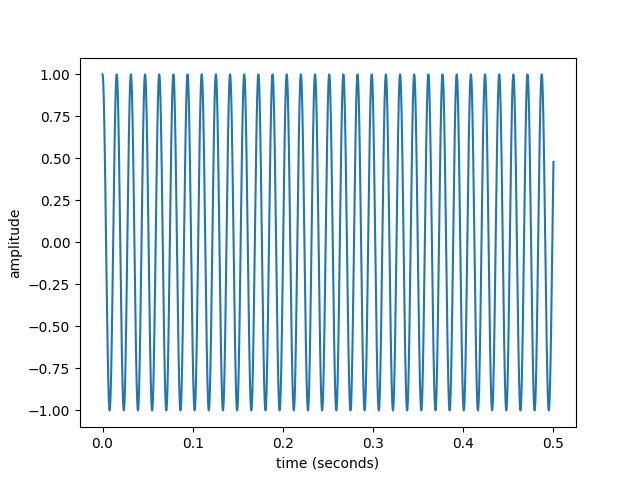
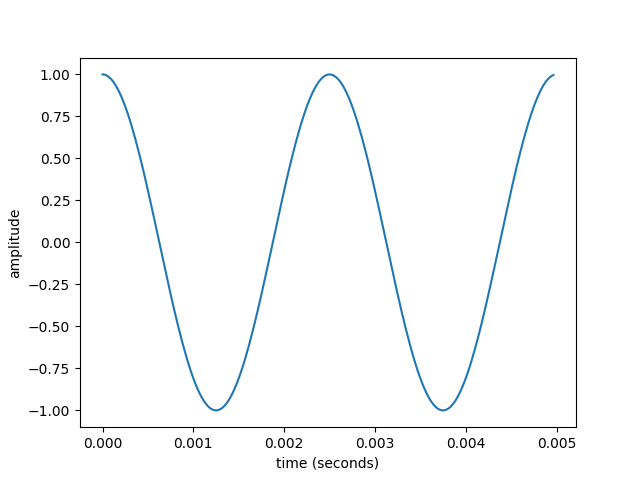
Q2

diff --git a/assignment03/assignment03.py b/assignment03/assignment03.py
@@ -16,9 +16,9 @@ def generateSinusoidal(amplitude, sampling_rate_Hz, frequency_Hz, length_secs, p
     t = np.arange(sampling_rate_Hz*length_secs)
     t /= sampling_rate_Hz
     #create the empty signal array
-    x = np.ndarray(shape=(int(sampling_rate_Hz * length_secs),))
+    x = np.zeros(int(sampling_rate_Hz * length_secs))
     #compute the signal
-    x = amplitude * np.sin(t * frequency_Hz + phase_radians)
+    x = amplitude * np.sin(2 * np.pi * frequency_Hz * t + phase_radians)
 
     return t, x
 
@@ -27,8 +27,9 @@ t_sin, x_sin = generateSinusoidal(1.0, 44100, 400, 0.5, np.pi/2) #generate a sin
 #Plot the first 5 ms of the sinusoid
 plt.xlabel('time (seconds)')
 plt.ylabel('amplitude')
-plt.plot(t_sin, x_sin)
+plt.plot(t_sin[:int(0.005*44100)], x_sin[:int(0.005*44100)])
 plt.savefig('results/sinusoid.png')
+plt.clf()
 
 
 
@@ -36,16 +37,26 @@ plt.savefig('results/sinusoid.png')
 def generateSquare(amplitude, sampling_rate_Hz, frequency_Hz, length_secs, phase_radians):
     """
     generates a square wave approximated with 10 sinusoidal
-    (https://en.wikipedia.org/wiki/Square_wave)
     The outputs x and t are the generated signal and the corresponding time in seconds.
     (NumPy arrays of the same length)
     """
-    #generateSinusoidal()
-    return t, x
+    x = np.zeros(int(sampling_rate_Hz * length_secs)) #create the empty signal array
 
-#t, x = generateSquare(1.0, 44100, 400, 0.5, 0)
+    n = 1
+    while n <= 10:
+        t_n, x_n = generateSinusoidal(amplitude/(2*n - 1), sampling_rate_Hz, frequency_Hz*(2*n - 1), length_secs, phase_radians)
+        x += x_n #add each sinusoidal
+        n += 1
+    return t_n, x
+
+t_square, x_square = generateSquare(1.0, 44100, 400, 0.5, 0)
+
 #Plot the first 5 ms of the generated square waves in Part 2.2.
-
+plt.xlabel('time (seconds)')
+plt.ylabel('amplitude')
+plt.plot(t_square[:int(0.005*44100)], x_square[:int(0.005*44100)])
+plt.savefig('results/square.png')
+plt.clf()
 
 
 ##################Question 3. Fourier Transform [25]############################
